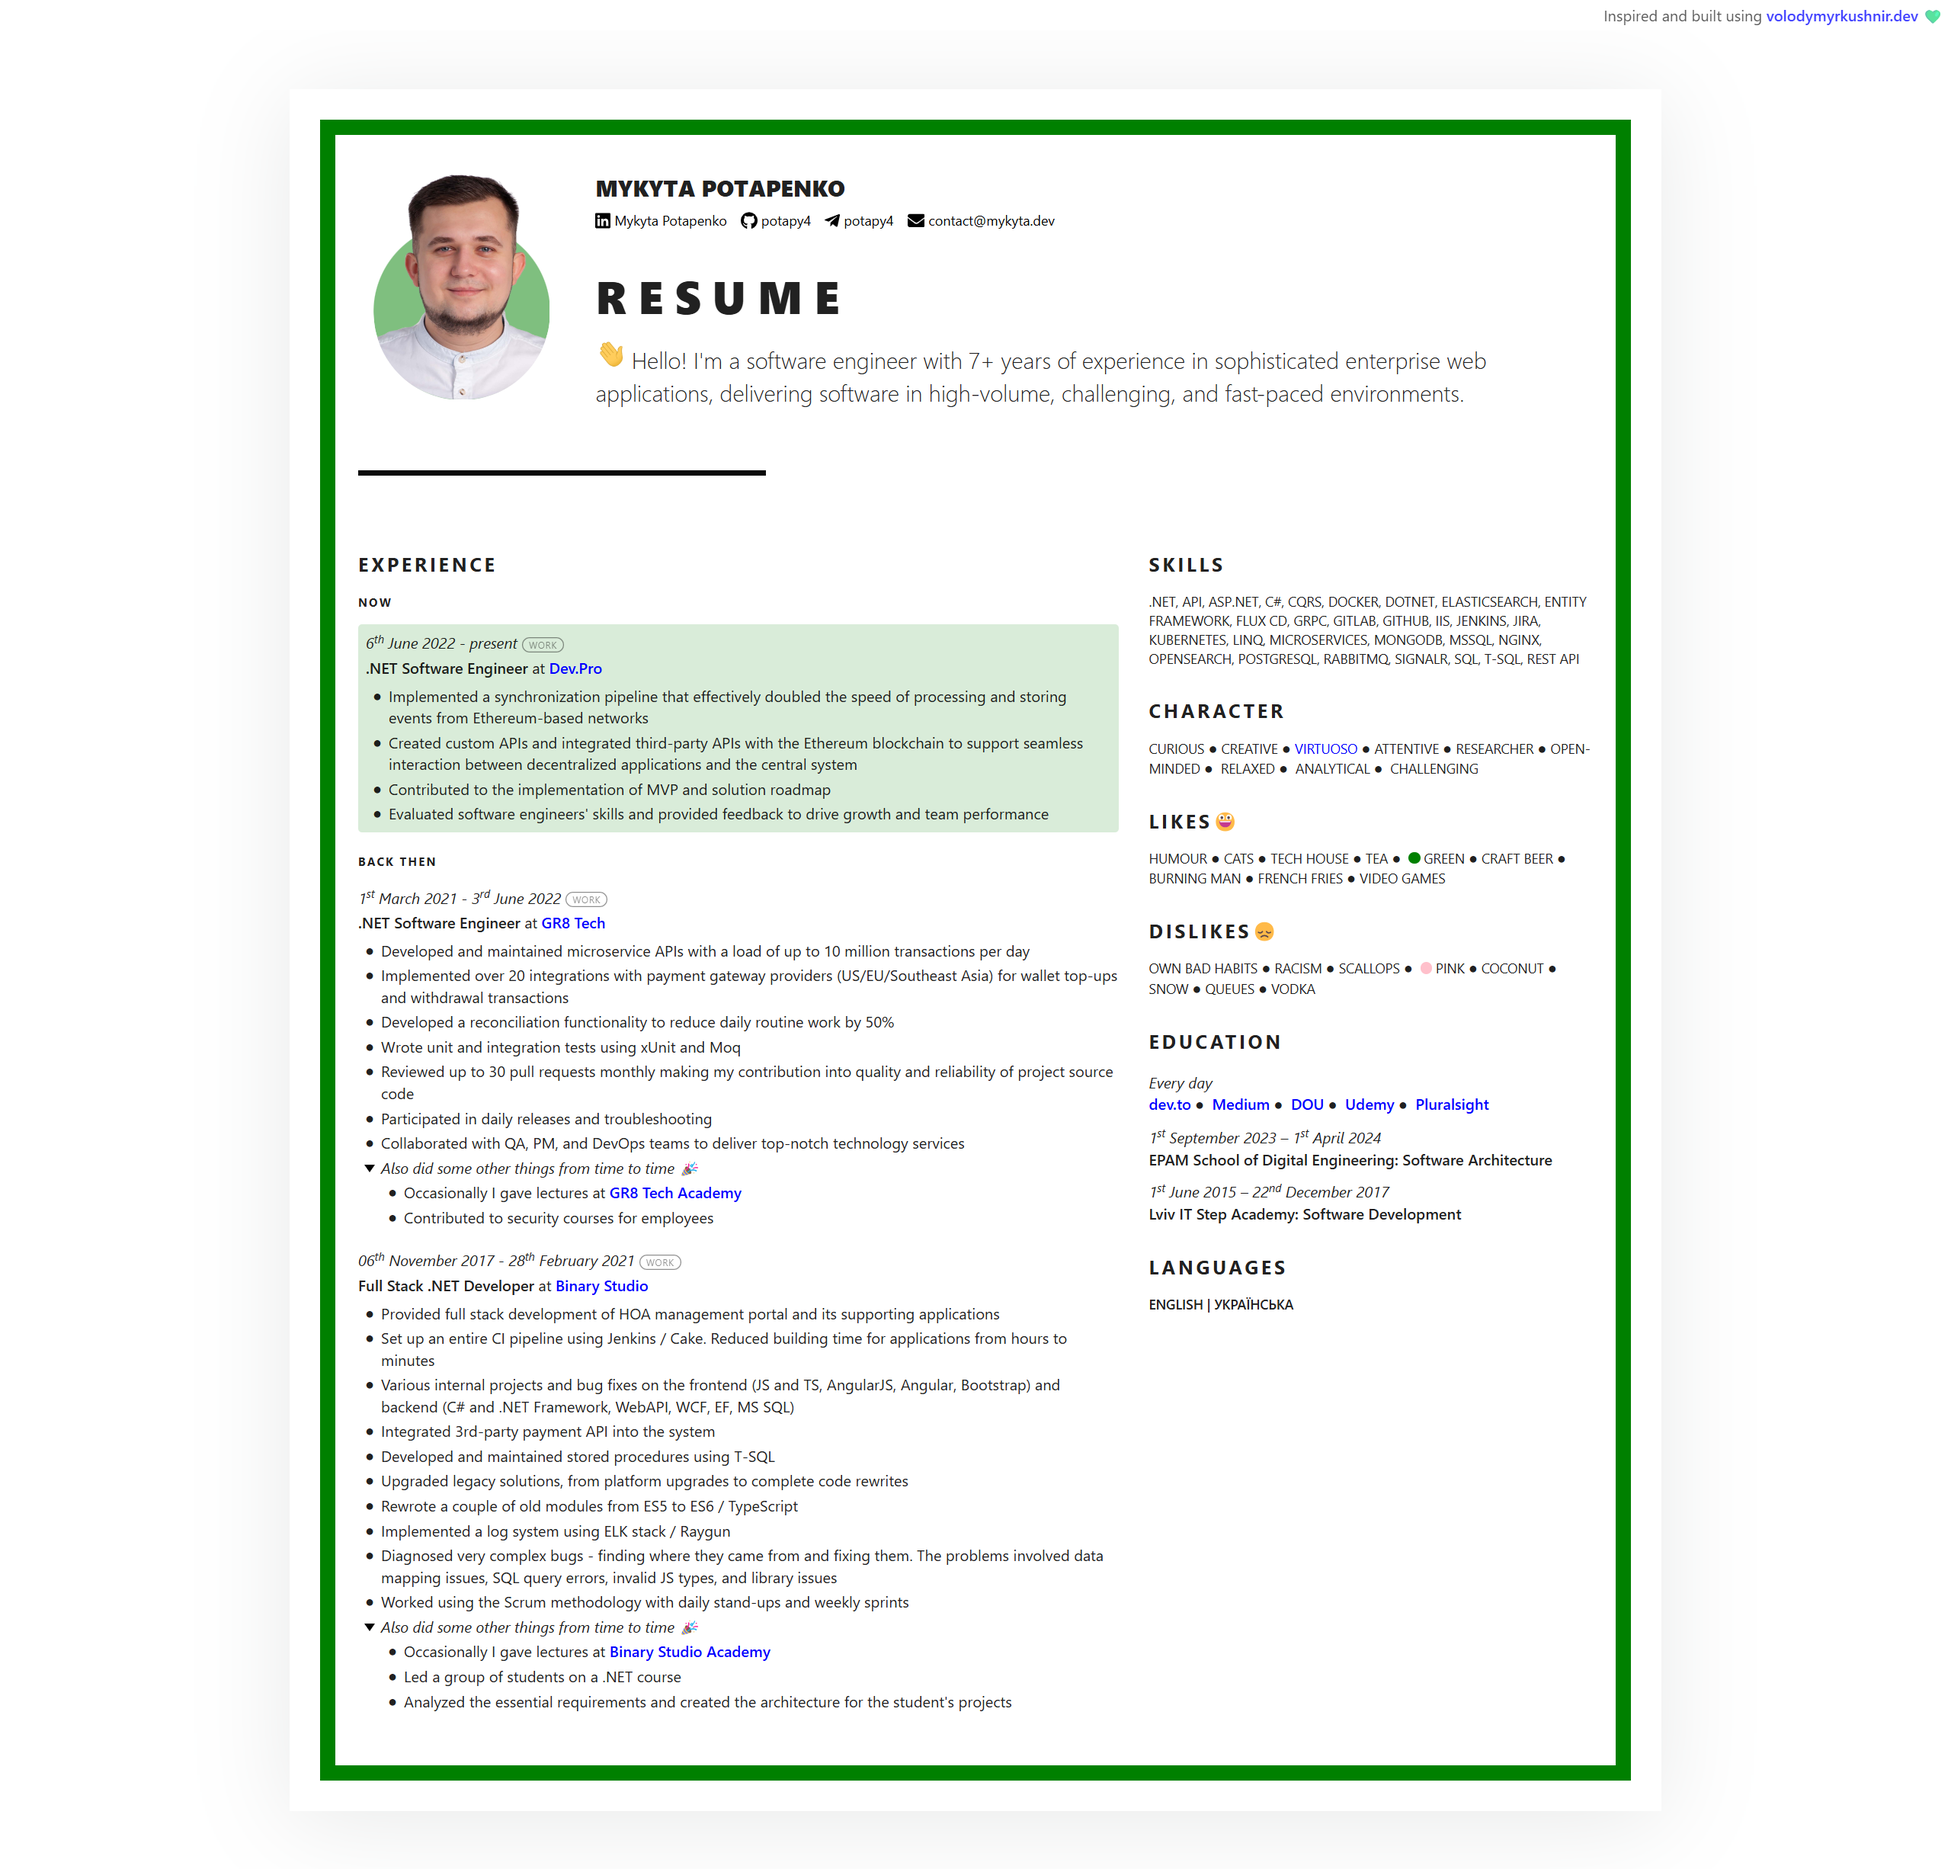
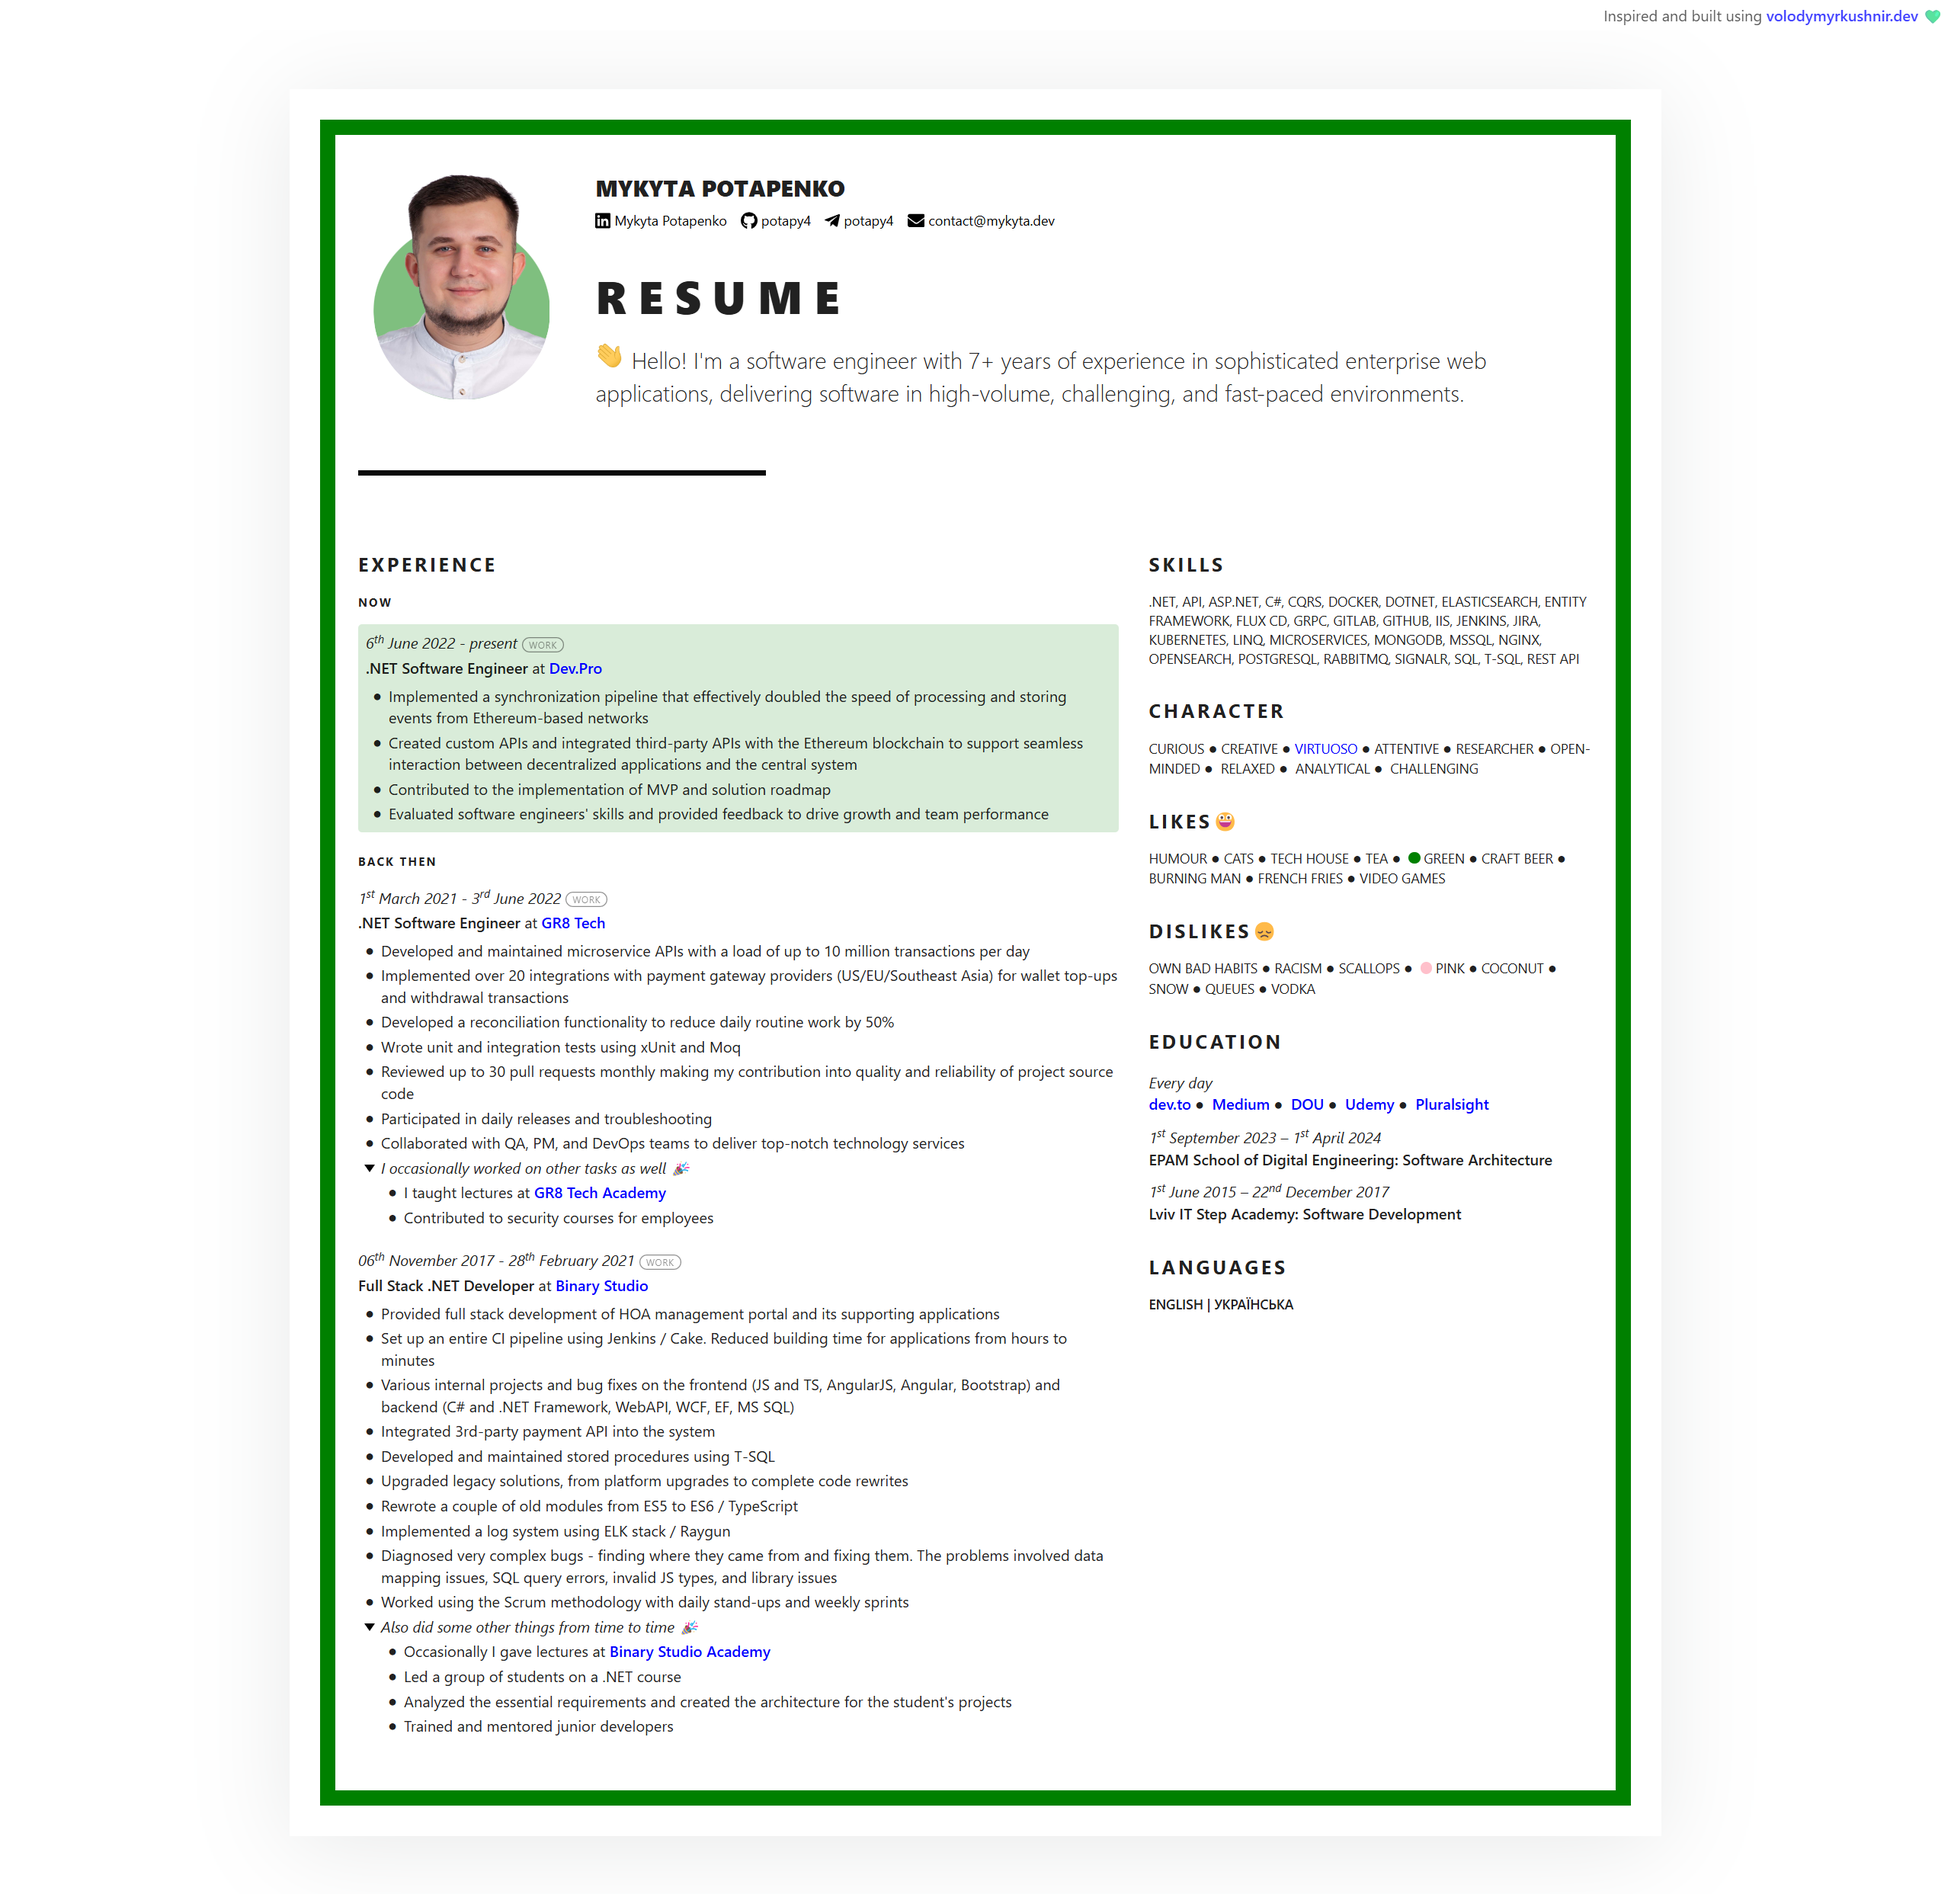
Update description

diff --git a/sw.js b/sw.js
@@ -1,2 +1,2 @@
-if(!self.define){let e,s={};const a=(a,i)=>(a=new URL(a+".js",i).href,s[a]||new Promise((s=>{if("document"in self){const e=document.createElement("script");e.src=a,e.onload=s,document.head.appendChild(e)}else e=a,importScripts(a),s()})).then((()=>{let e=s[a];if(!e)throw new Error(`Module ${a} didn’t register its module`);return e})));self.define=(i,n)=>{const c=e||("document"in self?document.currentScript.src:"")||location.href;if(s[c])return;let r={};const t=e=>a(e,c),f={module:{uri:c},exports:r,require:t};s[c]=Promise.all(i.map((e=>f[e]||t(e)))).then((e=>(n(...e),r)))}}define(["./workbox-f2c3e2b3"],(function(e){"use strict";self.skipWaiting(),e.clientsClaim(),e.precacheAndRoute([{url:"assets/images/apple-touch-icon.png",revision:"b7b13e858b6a95ff4bcb03556df14acb"},{url:"assets/images/avatar_circle.png",revision:"a05192784739abfb302f311b354d7d7d"},{url:"assets/images/avatar.svg",revision:"551cb6ef3de352fd4ab5eaf2a4f590fc"},{url:"assets/images/favicon-32x32.png",revision:"5bda7f01f9532326fbdc4966e4ea48f8"},{url:"assets/images/favicon-96x96.png",revision:"7da2a326ae1645c66aaf82ec121363e0"},{url:"assets/images/og-image.en_US.png",revision:"73682ddb708c2785b40002af4cf9ff20"},{url:"assets/js/main.js",revision:"0f95639cdaaf61ac88d9a5a9386cbcdc"},{url:"assets/stylesheets/base.css",revision:"3ae163d529fa999a22b7b6edaf8e76da"},{url:"assets/stylesheets/layout.css",revision:"d151072e1f3358ffcdd264f0b9f71bbc"},{url:"assets/stylesheets/variables.css",revision:"5607cea554901b87520f0dbfd409a3f9"},{url:"favicon.ico",revision:"556474e59b4b478f185553e7a722e87d"},{url:"index.html",revision:"5d6b1a43c72b297ef25e8ae3e2e4d22a"},{url:"manifest.json",revision:"c9c26a5ca3dc4dfd97bdbae47614c5d1"}],{}),e.registerRoute(/\.(?:png|jpg|jpeg|svg|gif)$/,new e.CacheFirst({cacheName:"images",plugins:[new e.ExpirationPlugin({maxEntries:60,maxAgeSeconds:2592e3})]}),"GET"),e.registerRoute(/\.(?:css|js)$/,new e.StaleWhileRevalidate({cacheName:"static-resources",plugins:[new e.ExpirationPlugin({maxEntries:30,maxAgeSeconds:604800})]}),"GET")}));
+if(!self.define){let e,s={};const a=(a,i)=>(a=new URL(a+".js",i).href,s[a]||new Promise((s=>{if("document"in self){const e=document.createElement("script");e.src=a,e.onload=s,document.head.appendChild(e)}else e=a,importScripts(a),s()})).then((()=>{let e=s[a];if(!e)throw new Error(`Module ${a} didn’t register its module`);return e})));self.define=(i,n)=>{const c=e||("document"in self?document.currentScript.src:"")||location.href;if(s[c])return;let r={};const t=e=>a(e,c),f={module:{uri:c},exports:r,require:t};s[c]=Promise.all(i.map((e=>f[e]||t(e)))).then((e=>(n(...e),r)))}}define(["./workbox-f2c3e2b3"],(function(e){"use strict";self.skipWaiting(),e.clientsClaim(),e.precacheAndRoute([{url:"assets/images/apple-touch-icon.png",revision:"b7b13e858b6a95ff4bcb03556df14acb"},{url:"assets/images/avatar_circle.png",revision:"a05192784739abfb302f311b354d7d7d"},{url:"assets/images/avatar.svg",revision:"551cb6ef3de352fd4ab5eaf2a4f590fc"},{url:"assets/images/favicon-32x32.png",revision:"5bda7f01f9532326fbdc4966e4ea48f8"},{url:"assets/images/favicon-96x96.png",revision:"7da2a326ae1645c66aaf82ec121363e0"},{url:"assets/images/og-image.en_US.png",revision:"0ab85ab6a61375deb88d9c7e7bf8732b"},{url:"assets/js/main.js",revision:"0f95639cdaaf61ac88d9a5a9386cbcdc"},{url:"assets/stylesheets/base.css",revision:"3ae163d529fa999a22b7b6edaf8e76da"},{url:"assets/stylesheets/layout.css",revision:"d151072e1f3358ffcdd264f0b9f71bbc"},{url:"assets/stylesheets/variables.css",revision:"5607cea554901b87520f0dbfd409a3f9"},{url:"favicon.ico",revision:"556474e59b4b478f185553e7a722e87d"},{url:"index.html",revision:"92bef6d3797c0af3ed00ed4f09699075"},{url:"manifest.json",revision:"c9c26a5ca3dc4dfd97bdbae47614c5d1"}],{}),e.registerRoute(/\.(?:png|jpg|jpeg|svg|gif)$/,new e.CacheFirst({cacheName:"images",plugins:[new e.ExpirationPlugin({maxEntries:60,maxAgeSeconds:2592e3})]}),"GET"),e.registerRoute(/\.(?:css|js)$/,new e.StaleWhileRevalidate({cacheName:"static-resources",plugins:[new e.ExpirationPlugin({maxEntries:30,maxAgeSeconds:604800})]}),"GET")}));
 //# sourceMappingURL=sw.js.map

diff --git a/index.html b/index.html
@@ -22,7 +22,7 @@
 	<meta name="theme-color" content="white">
 	<meta property="og:description" content="&mdash; Hello! I'm a software engineer with 7+ years of experience in sophisticated enterprise web applications, delivering software in high-volume, challenging, and fast-paced environments.">
 	<meta property="og:image:alt" content="Screenshot of the homepage">
-	<meta property="og:image:height" content="2452">
+	<meta property="og:image:height" content="2485">
 	<meta property="og:image:type" content="image/png">
 	<meta property="og:image:width" content="2560">
 	<meta property="og:image" content="https://mykyta.dev/assets/images/og-image.en_US.png">
@@ -131,7 +131,7 @@
 								<ul class="timeline">
 									<li class="highlighted" data-tag="work">
 										<p><em>6<sup>th</sup> June 2022 - present</em></p>
-										<p><strong>.NET Software Engineer</strong> at <strong><a href="https://dev.pro/" rel="external">Dev.Pro</a></strong></p>
+										<p><strong>.NET Software Engineer</strong> at <strong><a href="https://dev.pro" rel="external">Dev.Pro</a></strong></p>
 										<ul>
 											<li>Implemented a synchronization pipeline that effectively doubled the speed of processing and storing events from Ethereum-based networks</li>
 											<li>Created custom APIs and integrated third-party APIs with the Ethereum blockchain to support seamless interaction between decentralized applications and the central system</li>
@@ -158,10 +158,10 @@
 										<ul>
 											<li class="details">
 												<input type="checkbox" id="pm-other">
-												<label for="pm-other" class="summary">Also did some other things from time to time &#x1f389;</label>
+												<label for="pm-other" class="summary">I occasionally worked on other tasks as well &#x1f389;</label>
 												<div>
 													<ul>
-														<li>Occasionally I gave lectures at <strong><a href="https://gr8.tech/academy" rel="external">GR8 Tech Academy</a></strong></li>
+														<li>I taught lectures at <strong><a href="https://gr8.tech/academy" rel="external">GR8 Tech Academy</a></strong></li>
 														<li>Contributed to security courses for employees</li>
 													</ul>
 												</div>
@@ -172,7 +172,7 @@
 								<ul class="timeline">
 									<li data-tag="work">
 										<p><em>06<sup>th</sup> November 2017 - 28<sup>th</sup> February 2021</em></p>
-										<p><strong>Full Stack .NET Developer</strong> at <strong><a href="https://binary-studio.com/" rel="external">Binary Studio</a></strong></p>
+										<p><strong>Full Stack .NET Developer</strong> at <strong><a href="https://binary-studio.com" rel="external">Binary Studio</a></strong></p>
 										<ul>
 											<li>Provided full stack development of HOA management portal and its supporting applications</li>
 											<li>Set up an entire CI pipeline using Jenkins / Cake. Reduced building time for applications from hours to minutes</li>
@@ -194,6 +194,7 @@
 														<li>Occasionally I gave lectures at <strong><a href="https://academy.binary-studio.com" rel="external">Binary Studio Academy</a></strong></li>
 														<li>Led a group of students on a .NET course</li>
 														<li>Analyzed the essential requirements and created the architecture for the student's projects</li>
+														<li>Trained and mentored junior developers</li>
 													</ul>
 												</div>
 											</li>
